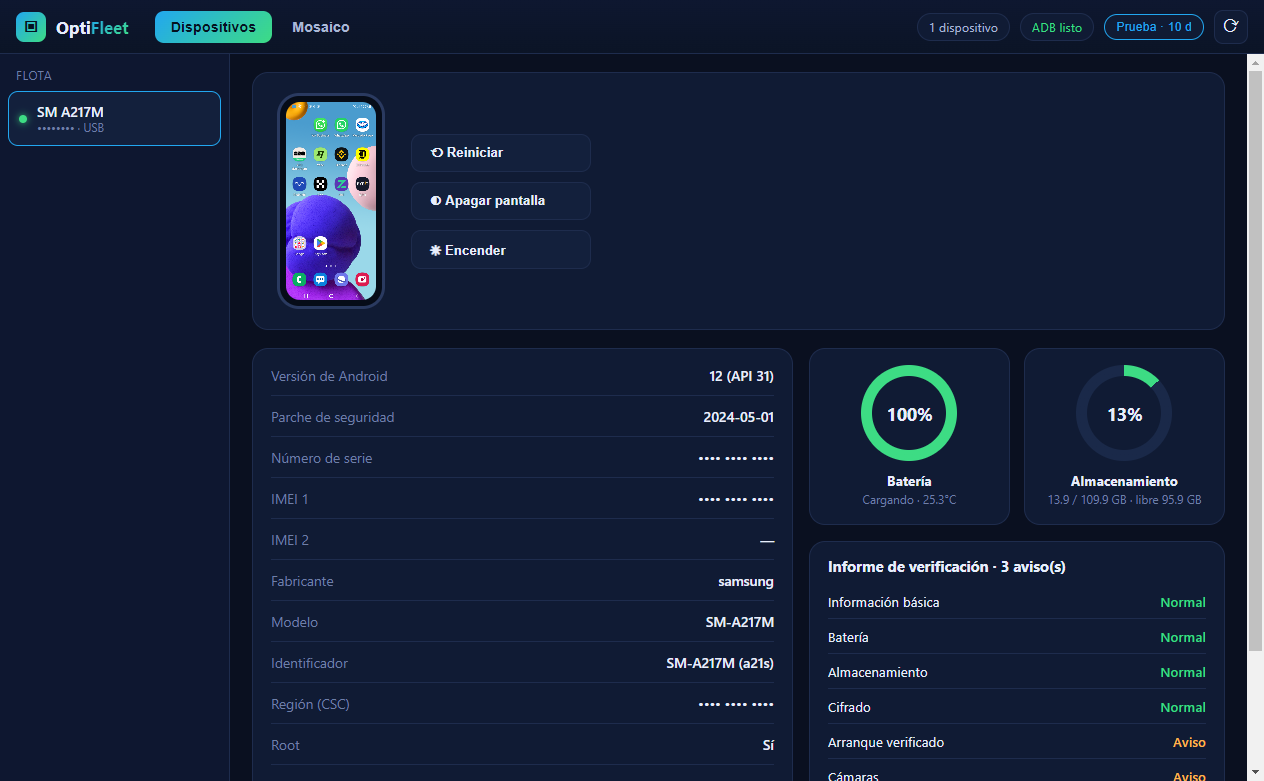
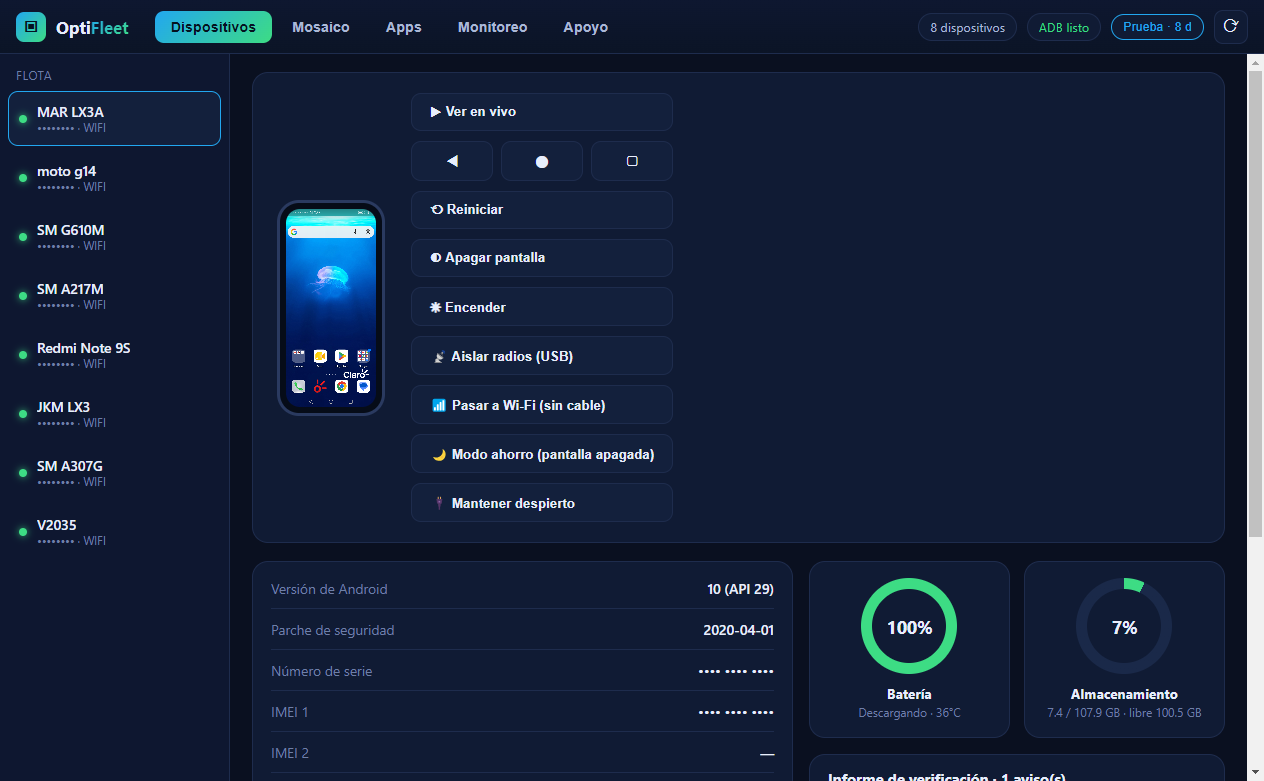
Web: OptiFleet — capturas nuevas (8 equipos) + ventana de espejo+control y nuevas opciones

diff --git a/index.html b/index.html
@@ -858,7 +858,7 @@
 
     <!-- CAPTURA PRINCIPAL -->
     <div style="border:1px solid var(--border);border-radius:14px;overflow:hidden;box-shadow:0 20px 60px rgba(0,0,0,.4);margin-bottom:14px;">
-      <img src="assets/img/shot-optifleet-dash.png" alt="Panel de dispositivo de OptiFleet" style="width:100%;display:block;">
+      <img src="assets/img/shot-optifleet-dash.png?v=2" alt="Panel de dispositivo de OptiFleet" style="width:100%;display:block;">
     </div>
     <p style="text-align:center;color:var(--text-3);font-size:0.8rem;margin-bottom:40px;">Panel por dispositivo · información en vivo · informe de salud</p>
 
@@ -867,7 +867,7 @@
     <div style="display:grid;grid-template-columns:repeat(auto-fit,minmax(240px,1fr));gap:14px;margin-bottom:44px;">
       <div style="border:1px solid var(--border);border-radius:12px;padding:16px;"><h3 style="font-size:0.98rem;margin:0 0 6px;">🗂 Mosaico en vivo</h3><p style="font-size:0.85rem;color:var(--text-3);margin:0;">Todos tus equipos en una rejilla que se actualiza en tiempo real. Elige cuál controlar con un clic.</p></div>
       <div style="border:1px solid var(--border);border-radius:12px;padding:16px;"><h3 style="font-size:0.98rem;margin:0 0 6px;">📊 Panel por dispositivo</h3><p style="font-size:0.85rem;color:var(--text-3);margin:0;">Batería (salud, ciclos, temperatura), almacenamiento, identidad e IMEI, con informe de verificación.</p></div>
-      <div style="border:1px solid var(--border);border-radius:12px;padding:16px;"><h3 style="font-size:0.98rem;margin:0 0 6px;">🖥 Control y espejado</h3><p style="font-size:0.85rem;color:var(--text-3);margin:0;">Visualiza y maneja cualquier equipo desde el PC. Abre varios a la vez con un motor integrado.</p></div>
+      <div style="border:1px solid var(--border);border-radius:12px;padding:16px;"><h3 style="font-size:0.98rem;margin:0 0 6px;">🖥 Ventana de espejo + control</h3><p style="font-size:0.85rem;color:var(--text-3);margin:0;">Abre cada equipo en su propia ventana, estilo emulador: la pantalla del teléfono a un lado y una barra de botones al otro (encender, inicio, atrás, volumen, rotar…). Toca y desliza para controlarlo. Abre varios a la vez.</p></div>
       <div style="border:1px solid var(--border);border-radius:12px;padding:16px;"><h3 style="font-size:0.98rem;margin:0 0 6px;">⚙ Acciones en lote</h3><p style="font-size:0.85rem;color:var(--text-3);margin:0;">Reinicia, espeja o gestiona varios equipos seleccionados de una sola vez.</p></div>
       <div style="border:1px solid var(--border);border-radius:12px;padding:16px;"><h3 style="font-size:0.98rem;margin:0 0 6px;">🔋 Modo bajo consumo</h3><p style="font-size:0.85rem;color:var(--text-3);margin:0;">Optimizado para mantener muchos equipos conectados durante sesiones largas sin saturar el PC.</p></div>
       <div style="border:1px solid var(--border);border-radius:12px;padding:16px;"><h3 style="font-size:0.98rem;margin:0 0 6px;">🔒 Privado y seguro</h3><p style="font-size:0.85rem;color:var(--text-3);margin:0;">Licencia vinculada a tu equipo. Sin anuncios ni telemetría. Tus datos no salen de tu PC.</p></div>
@@ -876,6 +876,10 @@
       <div style="border:1px solid var(--border);border-radius:12px;padding:16px;"><h3 style="font-size:0.98rem;margin:0 0 6px;">💾 Respaldo 1-clic</h3><p style="font-size:0.85rem;color:var(--text-3);margin:0;">Copia fotos, vídeos y archivos de tus equipos a tu PC con un clic. Protege la información ante un restablecimiento de fábrica.</p></div>
       <div style="border:1px solid var(--border);border-radius:12px;padding:16px;"><h3 style="font-size:0.98rem;margin:0 0 6px;">🧹 Optimización por equipo</h3><p style="font-size:0.85rem;color:var(--text-3);margin:0;">Desactiva apps innecesarias y deja cada teléfono con solo las herramientas que usa. Reversible y en lote.</p></div>
       <div style="border:1px solid var(--border);border-radius:12px;padding:16px;"><h3 style="font-size:0.98rem;margin:0 0 6px;">📦 Instala APK y XAPK</h3><p style="font-size:0.85rem;color:var(--text-3);margin:0;">Instala apps en uno o varios equipos a la vez, incluyendo apps divididas (XAPK), con avisos claros si algo falla.</p></div>
+      <div style="border:1px solid var(--border);border-radius:12px;padding:16px;"><h3 style="font-size:0.98rem;margin:0 0 6px;">🔁 Reconexión automática</h3><p style="font-size:0.85rem;color:var(--text-3);margin:0;">Si se va la luz o se reinicia el PC, OptiFleet recuerda tus equipos y los vuelve a conectar solo. Sin reconectar uno por uno.</p></div>
+      <div style="border:1px solid var(--border);border-radius:12px;padding:16px;"><h3 style="font-size:0.98rem;margin:0 0 6px;">🔌 Mantener despierto</h3><p style="font-size:0.85rem;color:var(--text-3);margin:0;">Pantalla apagada pero el sistema y la conexión siguen vivos: menos calor y menos consumo, y los equipos siguen respondiendo.</p></div>
+      <div style="border:1px solid var(--border);border-radius:12px;padding:16px;"><h3 style="font-size:0.98rem;margin:0 0 6px;">➕ Añade equipos de cualquier red</h3><p style="font-size:0.85rem;color:var(--text-3);margin:0;">Conecta teléfonos de tu red local o de fuera (por Internet, con una VPN privada o reenvío de puerto). Quedan recordados.</p></div>
+      <div style="border:1px solid var(--border);border-radius:12px;padding:16px;"><h3 style="font-size:0.98rem;margin:0 0 6px;">🔒 Seguridad y auditoría</h3><p style="font-size:0.85rem;color:var(--text-3);margin:0;">Audita la postura de cada equipo (root, cuentas, opciones de desarrollador) y aplica refuerzo reversible para reducir el riesgo de manipulación.</p></div>
     </div>
 
     <!-- MOSAICO -->
@@ -885,7 +889,17 @@
         <h2 style="font-size:1.4rem;margin:0 0 10px;">Toda tu flota en una sola pantalla</h2>
         <p style="color:var(--text-2);font-size:0.92rem;">Conecta tus dispositivos y velos todos a la vez, en vivo. Selecciona uno o varios para controlarlos, reiniciarlos o espejarlos. Ideal para talleres y pruebas en múltiples modelos.</p>
       </div>
-      <div style="border:1px solid var(--border);border-radius:14px;overflow:hidden;box-shadow:0 14px 40px rgba(0,0,0,.35);"><img src="assets/img/shot-optifleet-grid.png" alt="Mosaico en vivo de OptiFleet" style="width:100%;display:block;"></div>
+      <div style="border:1px solid var(--border);border-radius:14px;overflow:hidden;box-shadow:0 14px 40px rgba(0,0,0,.35);"><img src="assets/img/shot-optifleet-grid.png?v=2" alt="Mosaico en vivo de OptiFleet" style="width:100%;display:block;"></div>
+    </div>
+
+    <!-- VENTANA DE CONTROL -->
+    <div style="display:grid;grid-template-columns:1fr 1fr;gap:24px;align-items:center;margin-bottom:44px;" class="tk-split">
+      <div style="border:1px solid var(--border);border-radius:14px;overflow:hidden;box-shadow:0 14px 40px rgba(0,0,0,.35);text-align:center;background:#04070e;"><img src="assets/img/shot-optifleet-control.png" alt="Ventana de espejo y control de OptiFleet" style="max-width:100%;max-height:420px;display:inline-block;"></div>
+      <div>
+        <div class="section-tag" style="margin-bottom:10px;">Espejo + control por equipo</div>
+        <h2 style="font-size:1.4rem;margin:0 0 10px;">Como un emulador, pero con tus teléfonos reales</h2>
+        <p style="color:var(--text-2);font-size:0.92rem;">Abre cada equipo en su propia ventana: la pantalla del teléfono y, al lado, una barra de herramientas a mano (encender/apagar, inicio, atrás, recientes, volumen, rotar, pantalla completa). Tócala o deslízala para controlar el equipo. Si el vídeo en vivo no está disponible, sigue mostrando la pantalla por capturas para que nunca te quedes a ciegas.</p>
+      </div>
     </div>
 
     <!-- ACCESO REMOTO -->
